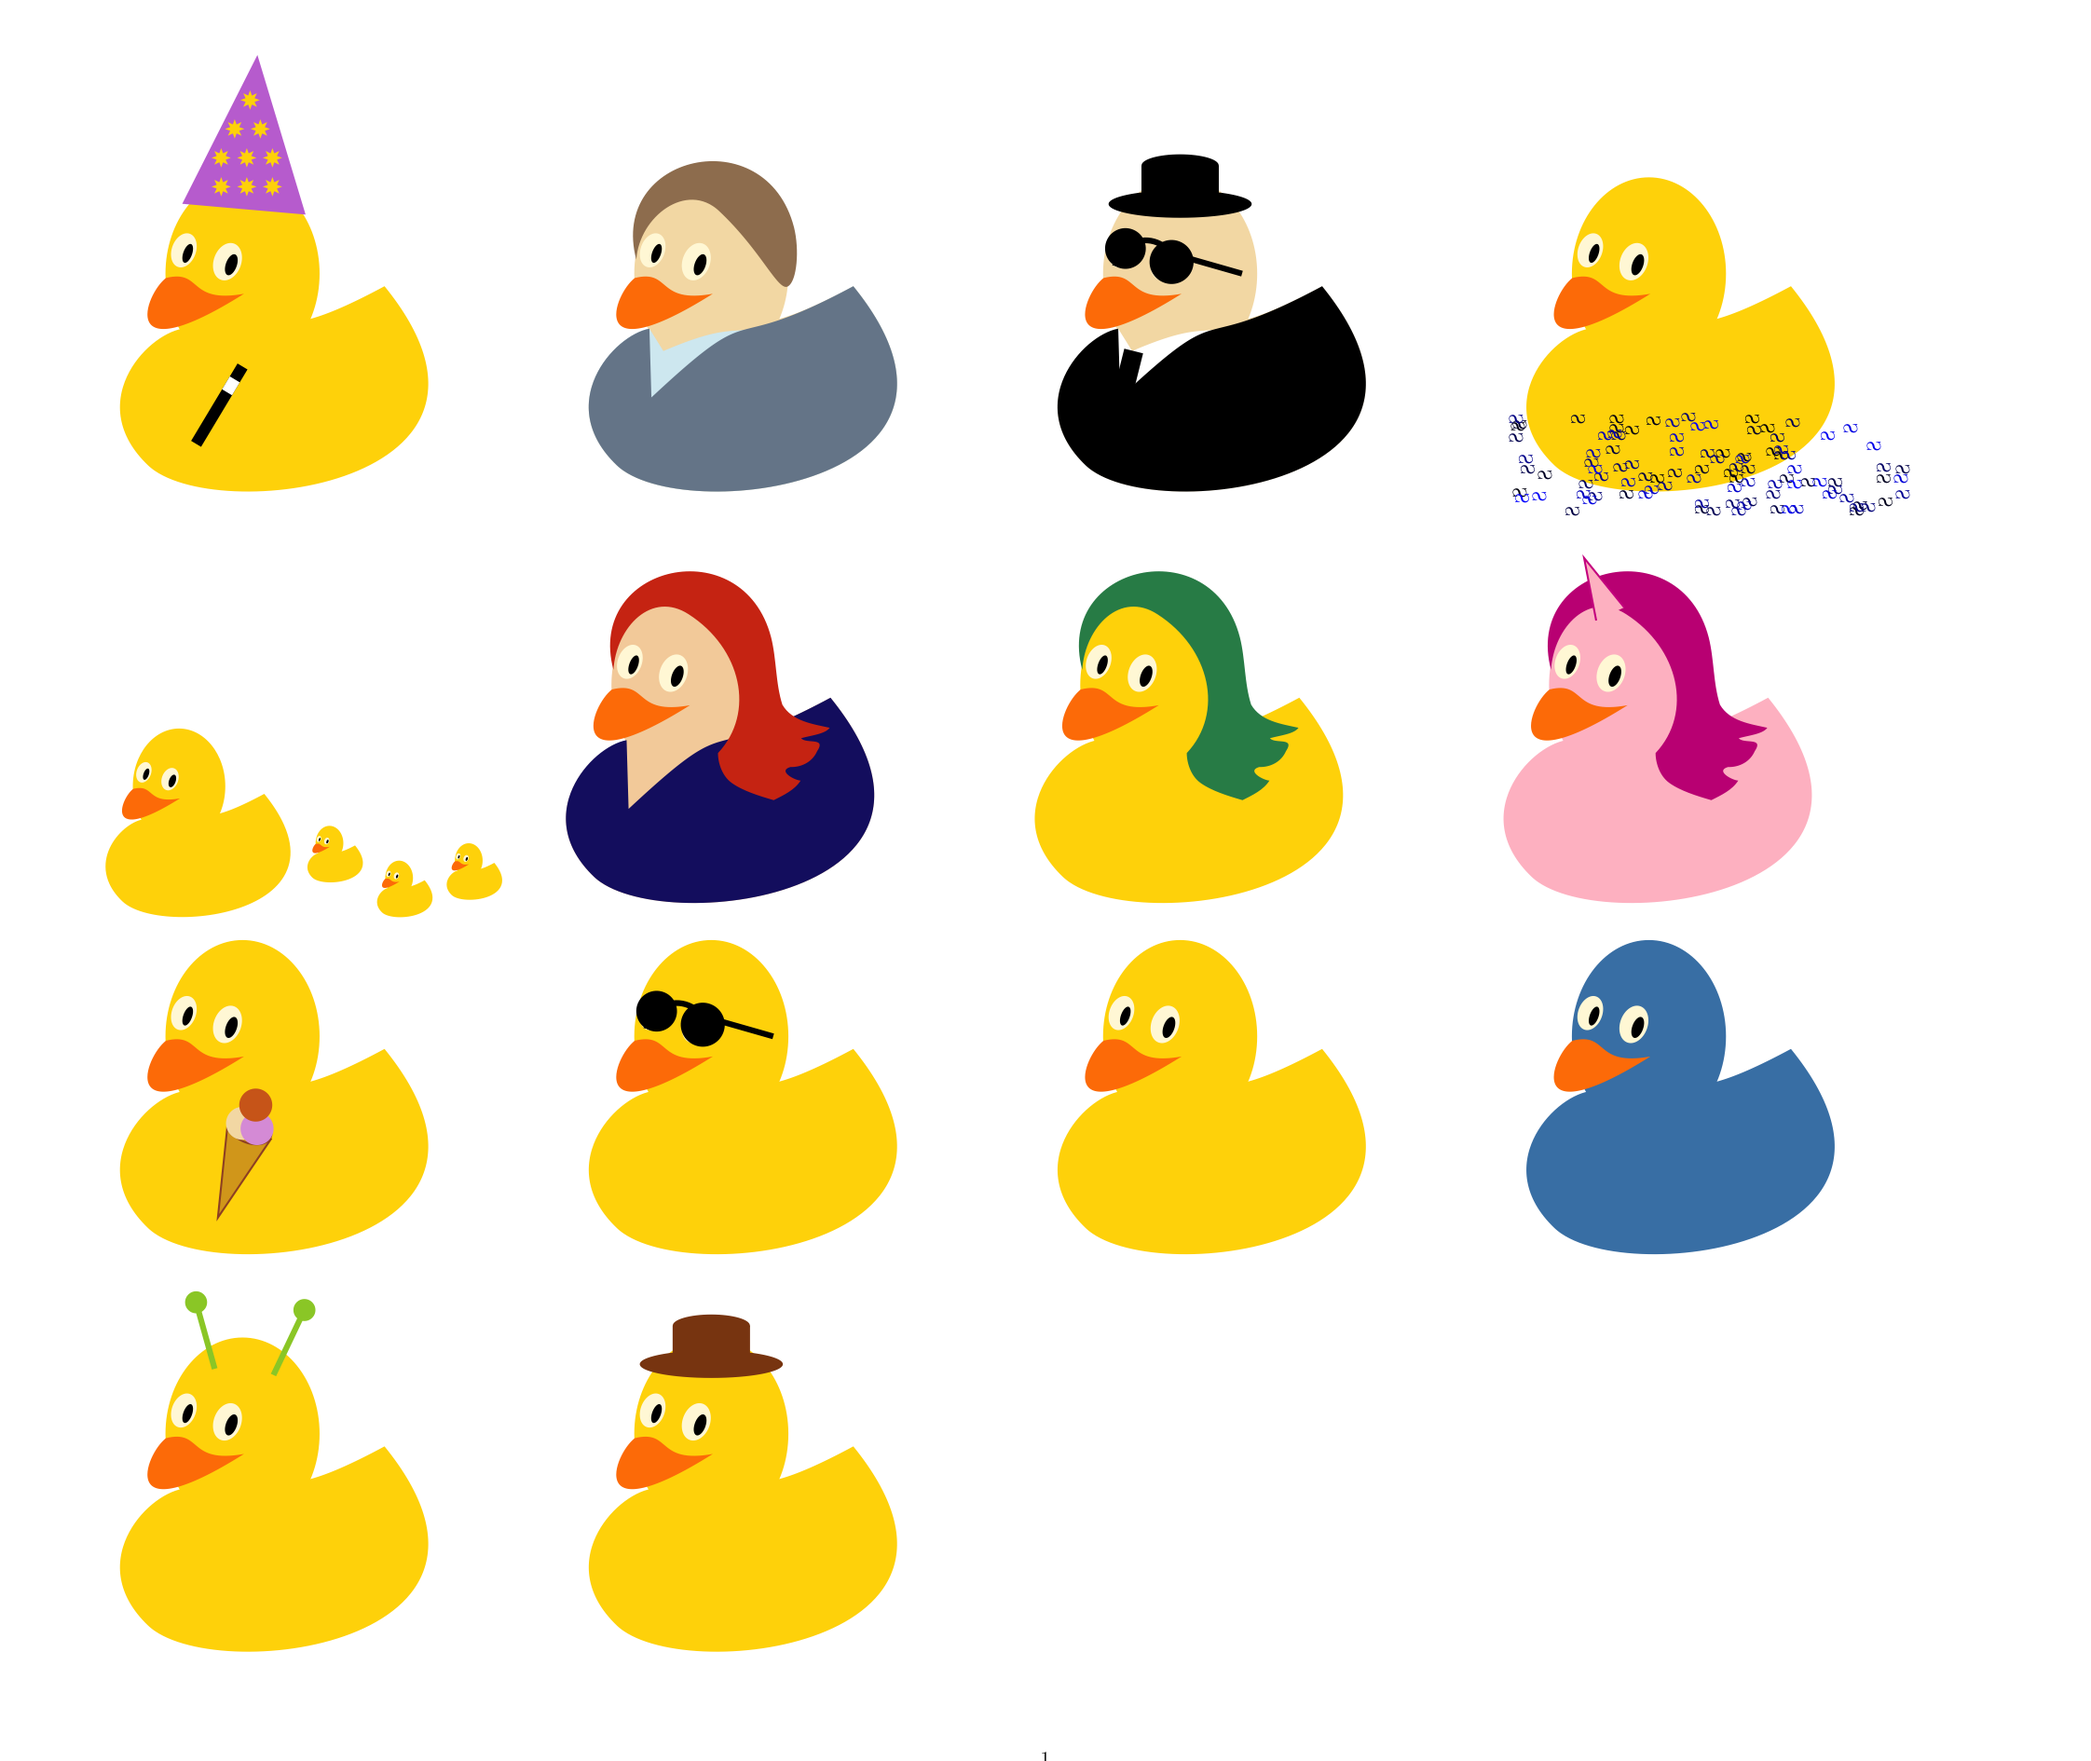
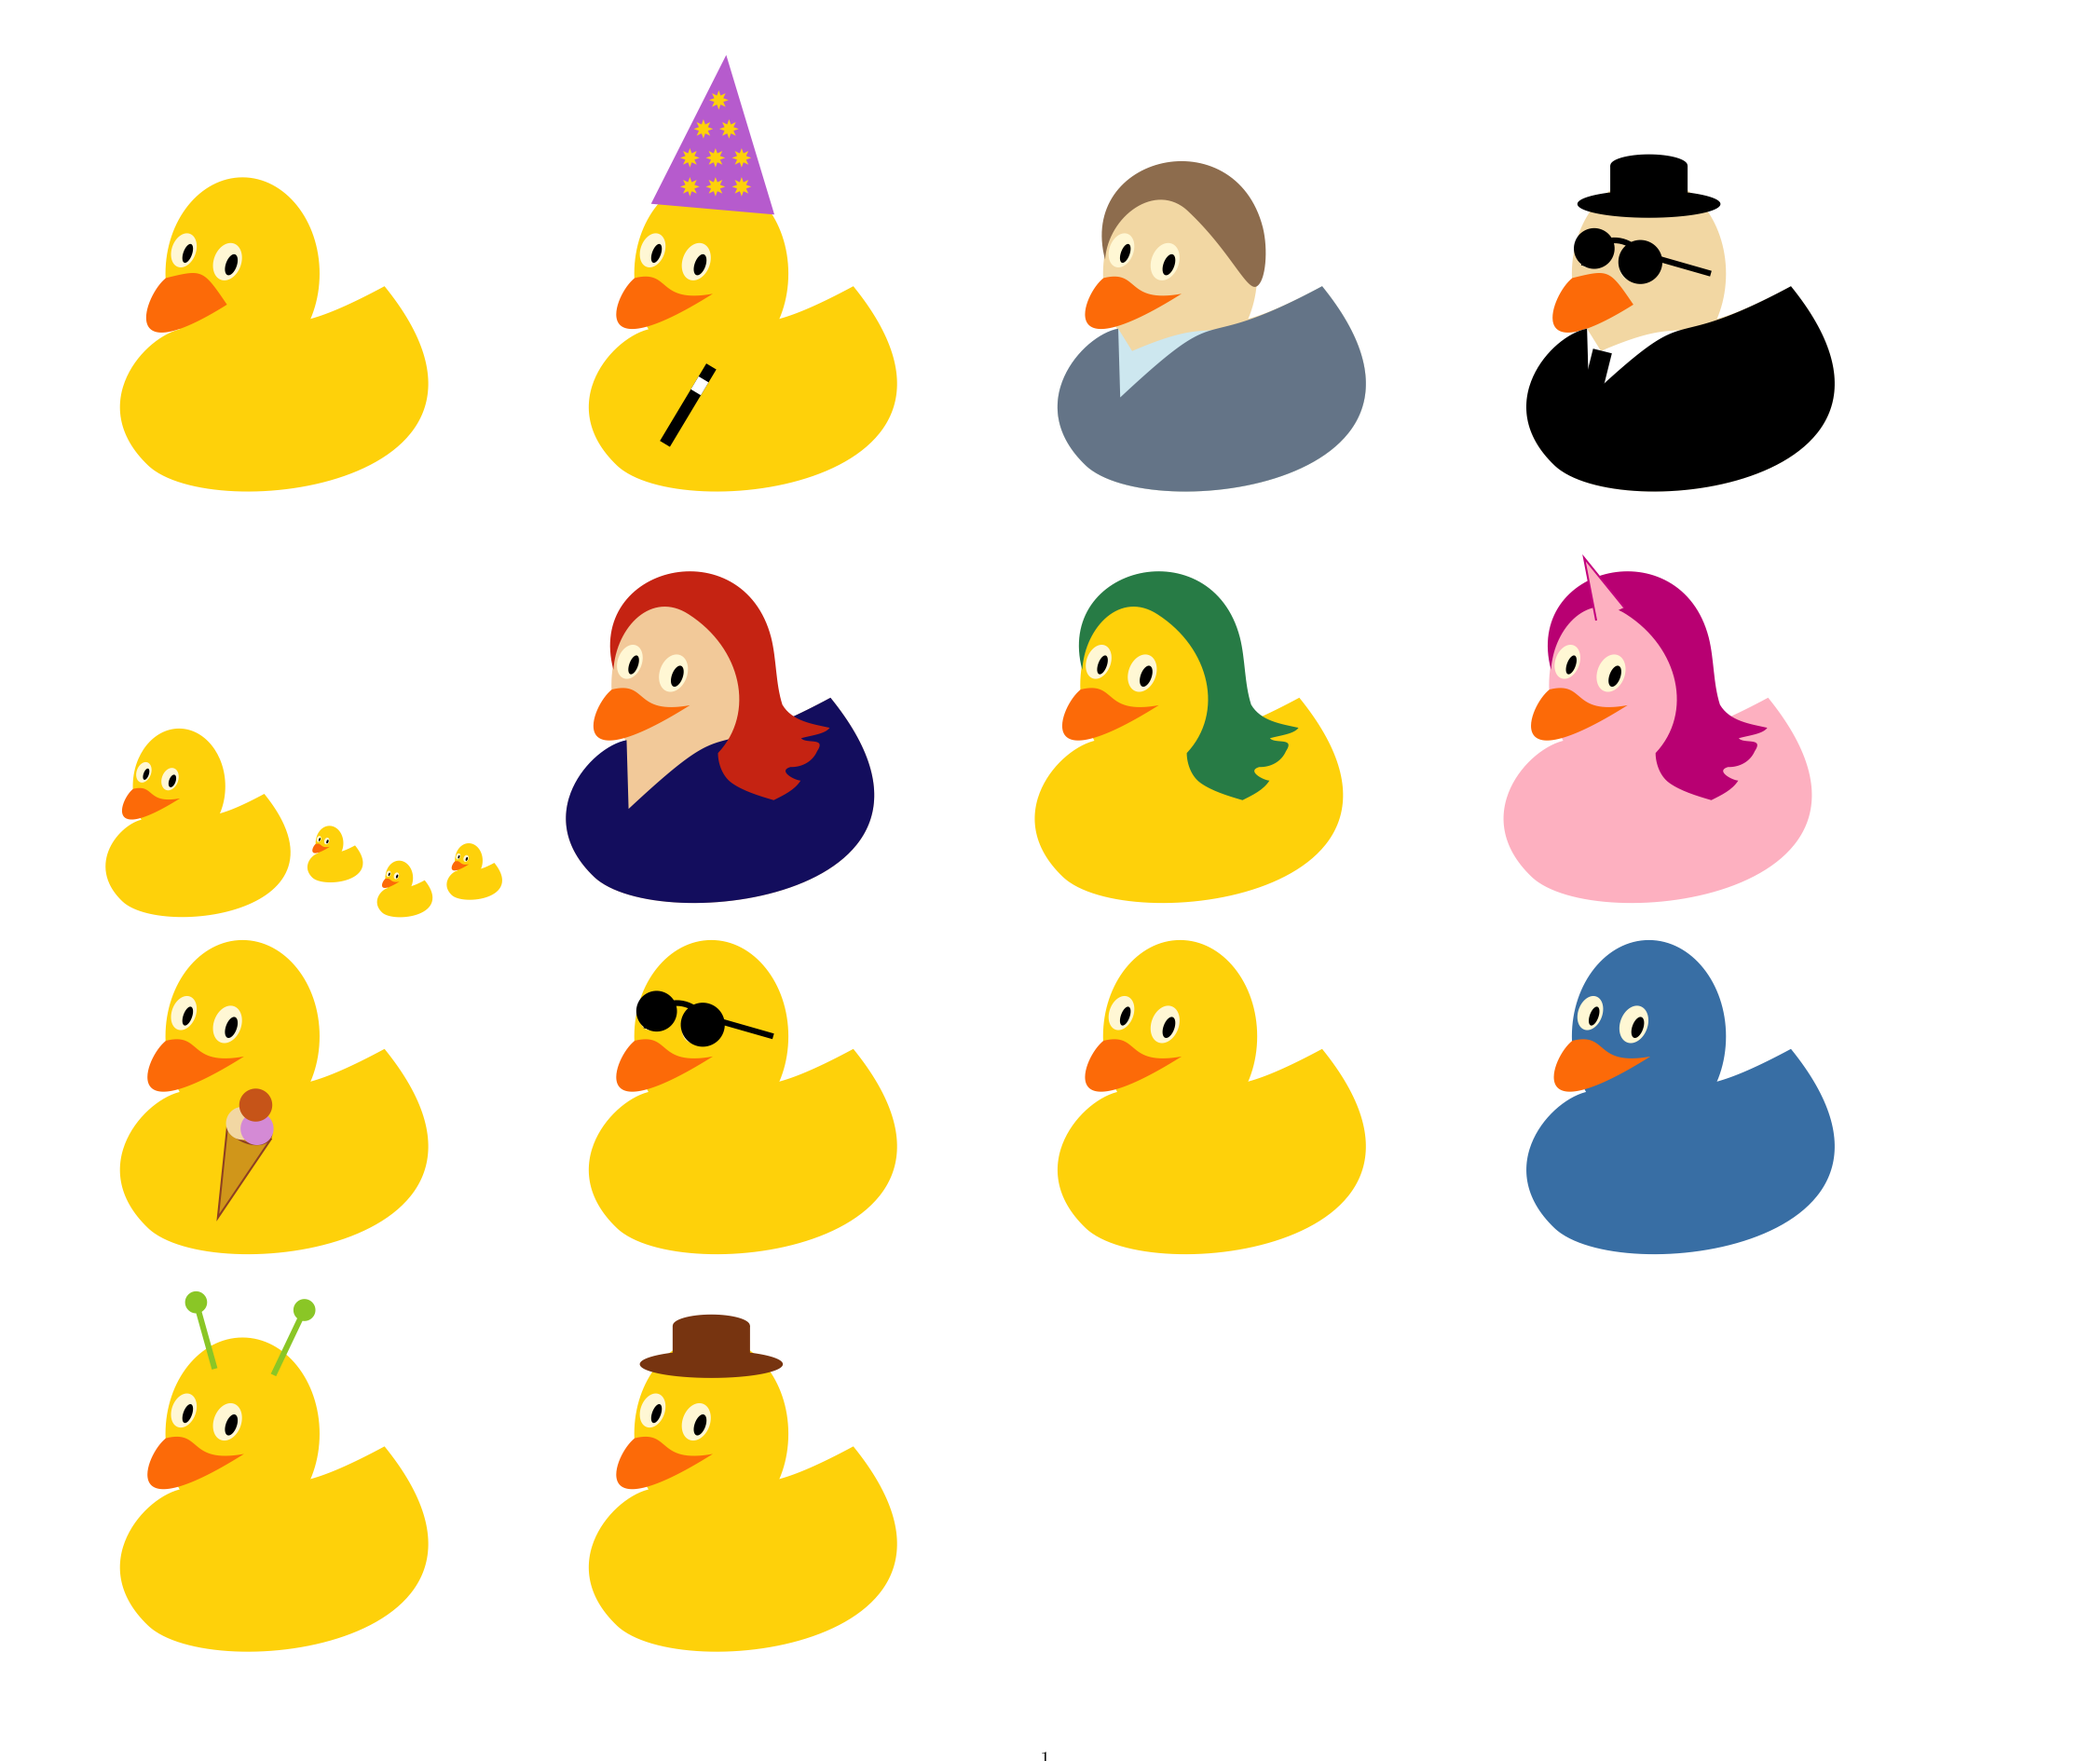
added grumpy duck

diff --git a/duck.tex b/duck.tex
@@ -34,6 +34,32 @@
 
 }
 
+\newcommand{\grumpyduck}[1]{%
+
+	\colorlet{duck}{#1}
+	\colorlet{eye}{Cornsilk}
+	\colorlet{pupil}{black}
+	\colorlet{bill}{orange}
+		
+	%body
+	\path[fill=duck] (51.2815,135.5394) .. controls (26.6859,139.7884) and (-12.5215,184.2616) .. (28.9411,223.8858) .. controls (70.4036,263.5099) and (286.2675,236.9673) .. (181.7701,108.1215) .. controls (93.7517,155.4266) and (123.9624,112.1537) .. (51.2815,135.5394) -- cycle;
+
+	%head
+	\path[fill=duck] (90,100) ellipse (1.4cm and 1.75cm);
+	
+	% duck's bill
+	\path[fill=bill, xshift=-11pt, xscale=1.1] (49.3866,102.7929) .. controls (70.9472,97.0244) and (70.9472,97.0244) .. (85.1826,120) .. controls (20,165) and (36.9082,113.0997) .. (49.3866,102.7929) -- cycle;
+	
+	% right eye
+	\path[fill=eye, rotate=20, xshift=-4pt, yshift=1pt] (112,58) ellipse (0.25cm and 0.35cm);
+	\path[fill=pupil, rotate=20, xshift=-4pt, yshift=1pt] (115,59) ellipse (0.1cm and 0.2cm);
+	
+	% left eye
+	\path[fill=eye, rotate=20] (78,62) ellipse (0.22cm and 0.32cm);
+	\path[fill=pupil, rotate=20] (81,63) ellipse (0.08cm and 0.18cm);
+
+}
+
 \newcommand{\addalien}{%
 	\draw[line width=3pt,color=YellowGreen] (110,62) -- (130,20);
 	\draw[line width=3pt,color=YellowGreen] (72,58) -- (60,15);
@@ -99,8 +125,15 @@
 	\draw[line width=6pt,color=white] (85,168.333) -- (80,176.666);
 }
 
+
+
 \begin{document}
 
+% grumpy
+\begin{tikzpicture}[y=0.80pt, x=0.80pt, yscale=-1.000000, xscale=1.000000, inner sep=0pt, outer sep=0pt]
+	\grumpyduck{Gold}
+\end{tikzpicture}
+%
 %Christian Hupfer
 \begin{tikzpicture}[y=0.80pt, x=0.80pt, yscale=-1.000000, xscale=1.000000, inner sep=0pt, outer sep=0pt]
 	\duck{Gold}
@@ -117,7 +150,7 @@
 %
 %Men in black
 \begin{tikzpicture}[y=0.80pt, x=0.80pt, yscale=-1.000000, xscale=1.000000, inner sep=0pt, outer sep=0pt]
-	\duck{Wheat}
+	\grumpyduck{Wheat}
 	\addtshirt{white}
 	\addshirt{black}
 	\addtie{black}
@@ -125,15 +158,15 @@
 	\addsunglasses
 \end{tikzpicture}
 %
-% swimming
-\begin{tikzpicture}[y=0.80pt, x=0.80pt, yscale=-1.000000, xscale=1.000000, inner sep=0pt, outer sep=0pt]
-	\duck{Gold}
-	\foreach \i in {1,...,100} {
-	   \pgfmathsetmacro{\x}{random(0,200)}%
-	   \pgfmathsetmacro{\y}{random(150,200)}%
-	   \pgftext[at=\pgfpoint{\x}{\y}, left, base]{\textcolor{blue!\i!black}{\rotatebox{90}{S}}}
-	}; 
-\end{tikzpicture}
+%% swimming
+%\begin{tikzpicture}[y=0.80pt, x=0.80pt, yscale=-1.000000, xscale=1.000000, inner sep=0pt, outer sep=0pt]
+%	\duck{Gold}
+%	\foreach \i in {1,...,100} {
+%	   \pgfmathsetmacro{\x}{random(0,200)}%
+%	   \pgfmathsetmacro{\y}{random(150,200)}%
+%	   \pgftext[at=\pgfpoint{\x}{\y}, left, base]{\textcolor{blue!\i!black}{\rotatebox{90}{S}}}
+%	}; 
+%\end{tikzpicture}
 
 % ducklings
 \begin{tikzpicture}[y=0.80pt, x=0.80pt, yscale=-0.6, xscale=0.6, inner sep=0pt, outer sep=0pt]
